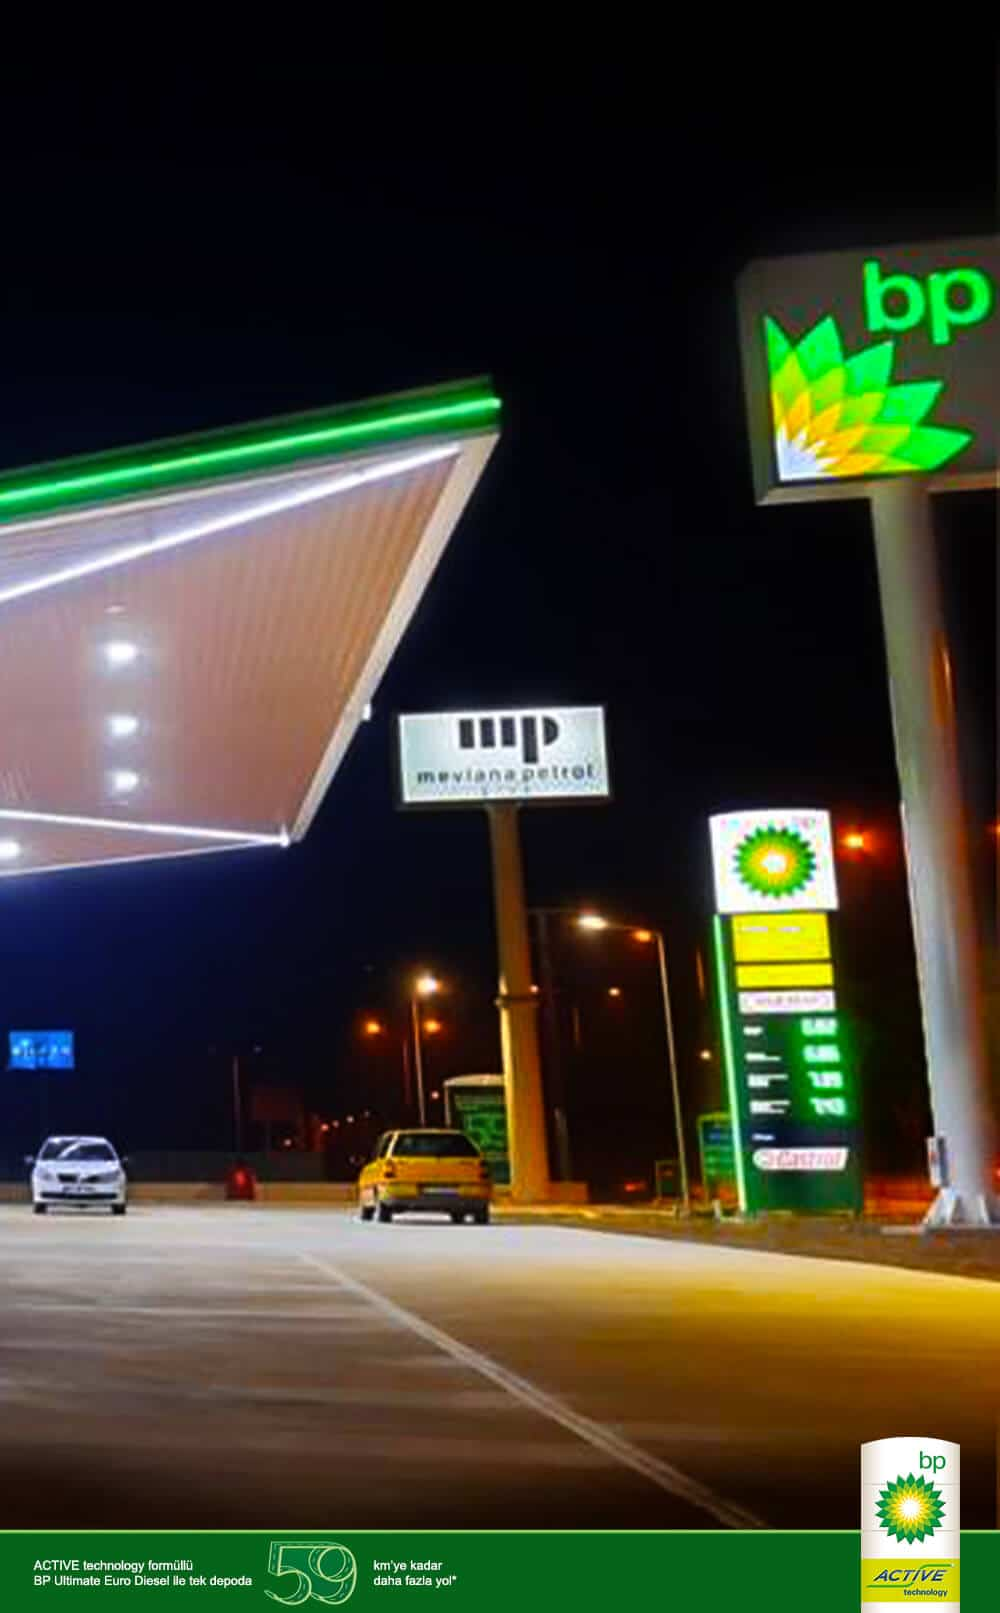
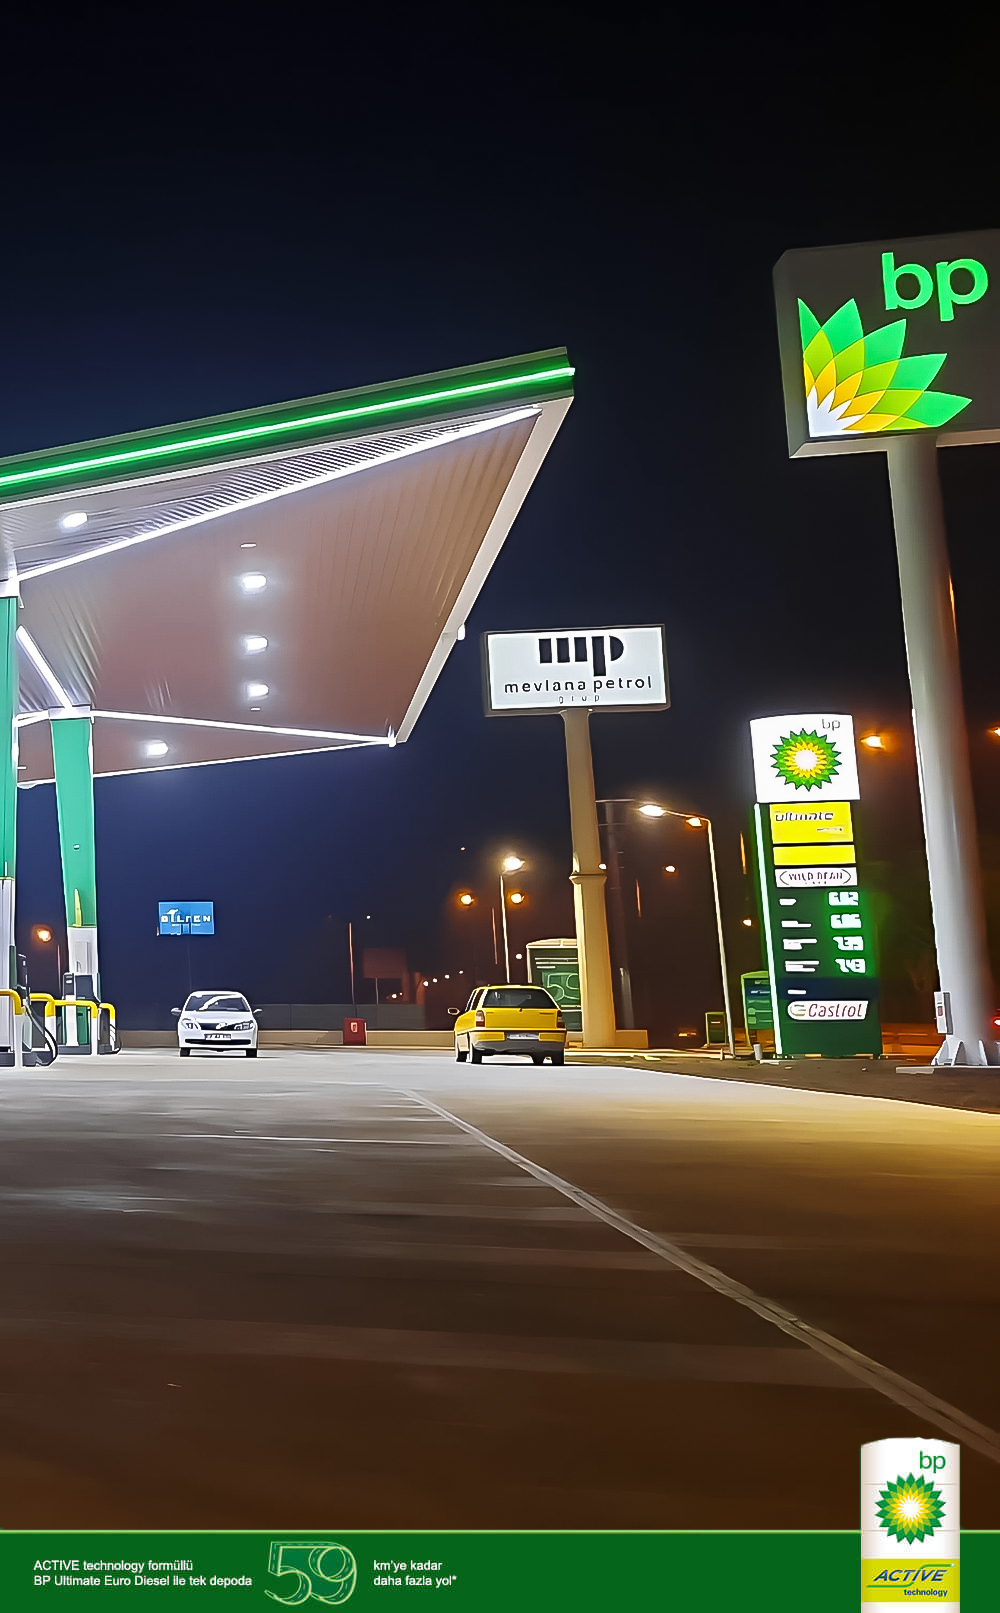
img changed

diff --git a/Frontend/src/Components/MainCarousel.jsx b/Frontend/src/Components/MainCarousel.jsx
@@ -4,11 +4,11 @@ import useEmblaCarousel from "embla-carousel-react";
 import Autoplay from "embla-carousel-autoplay";
 import { IoIosArrowBack, IoIosArrowForward } from "react-icons/io";
 import "../Styles/MainCarousel.scss";
-import image1 from "../../public/images/mpmatik.jpg";
-import image2 from "../../public/images/mpmatik-banner-filokart.jpg";
+import image1 from "../../public/images/mp-tasit-banner-kurumsal.jpg";
+import image2 from "../../public/images/mpmatik-banner-masaustu-filokart3.jpg";
 import image3 from "../../public/images/mpmatik3.jpg";
 import image1mobile from "../../public/images/mpmatik-mobil-banner-istasyon.jpg";
-import image2mobile from "../../public/images/mpmatik-banner-filokart.jpg";
+import image2mobile from "../../public/images/filo-mobil-banner2.jpg";
 import image3mobile from "../../public/images/mpmatik-mobil-banner-form.jpg";
 import ContactForm from "./ContactForm";
 

diff --git a/Frontend/src/Styles/MainCarousel.scss b/Frontend/src/Styles/MainCarousel.scss
@@ -1,8 +1,11 @@
 .carousel-wrapper {
     display: flex;
     width: 100%;
-    max-height: 90vh;
     overflow: visible;
+    height: 87.5vh;
+    background-color: #04641a;
+
+    
   }
   
   .carousel-container {
@@ -124,15 +127,20 @@
   
   .carousel-image {
     width: 100%;
-    height: 100vh;
+    height: 100%;
     display: flex;
 
-    @media (max-width: 1024px) { 
+    @media (max-width: 1440px) { 
       object-fit: cover;
     }
 
-    @media (min-width: 1024px) { 
-      object-fit: cover;
+    // @media (min-width: 1024px) and (min-width: 1440px) { 
+    //   object-fit: cover;
+    // }
+
+    @media (min-width: 1440px) { 
+      object-fit: contain;
+      max-height:94vh;
     }
 
   }
@@ -177,6 +185,7 @@
     display: flex;
     align-items: center;
     justify-content: center;
+    height: 85vh;
   
     @media (min-width: 1024px) { 
       position: absolute;  
